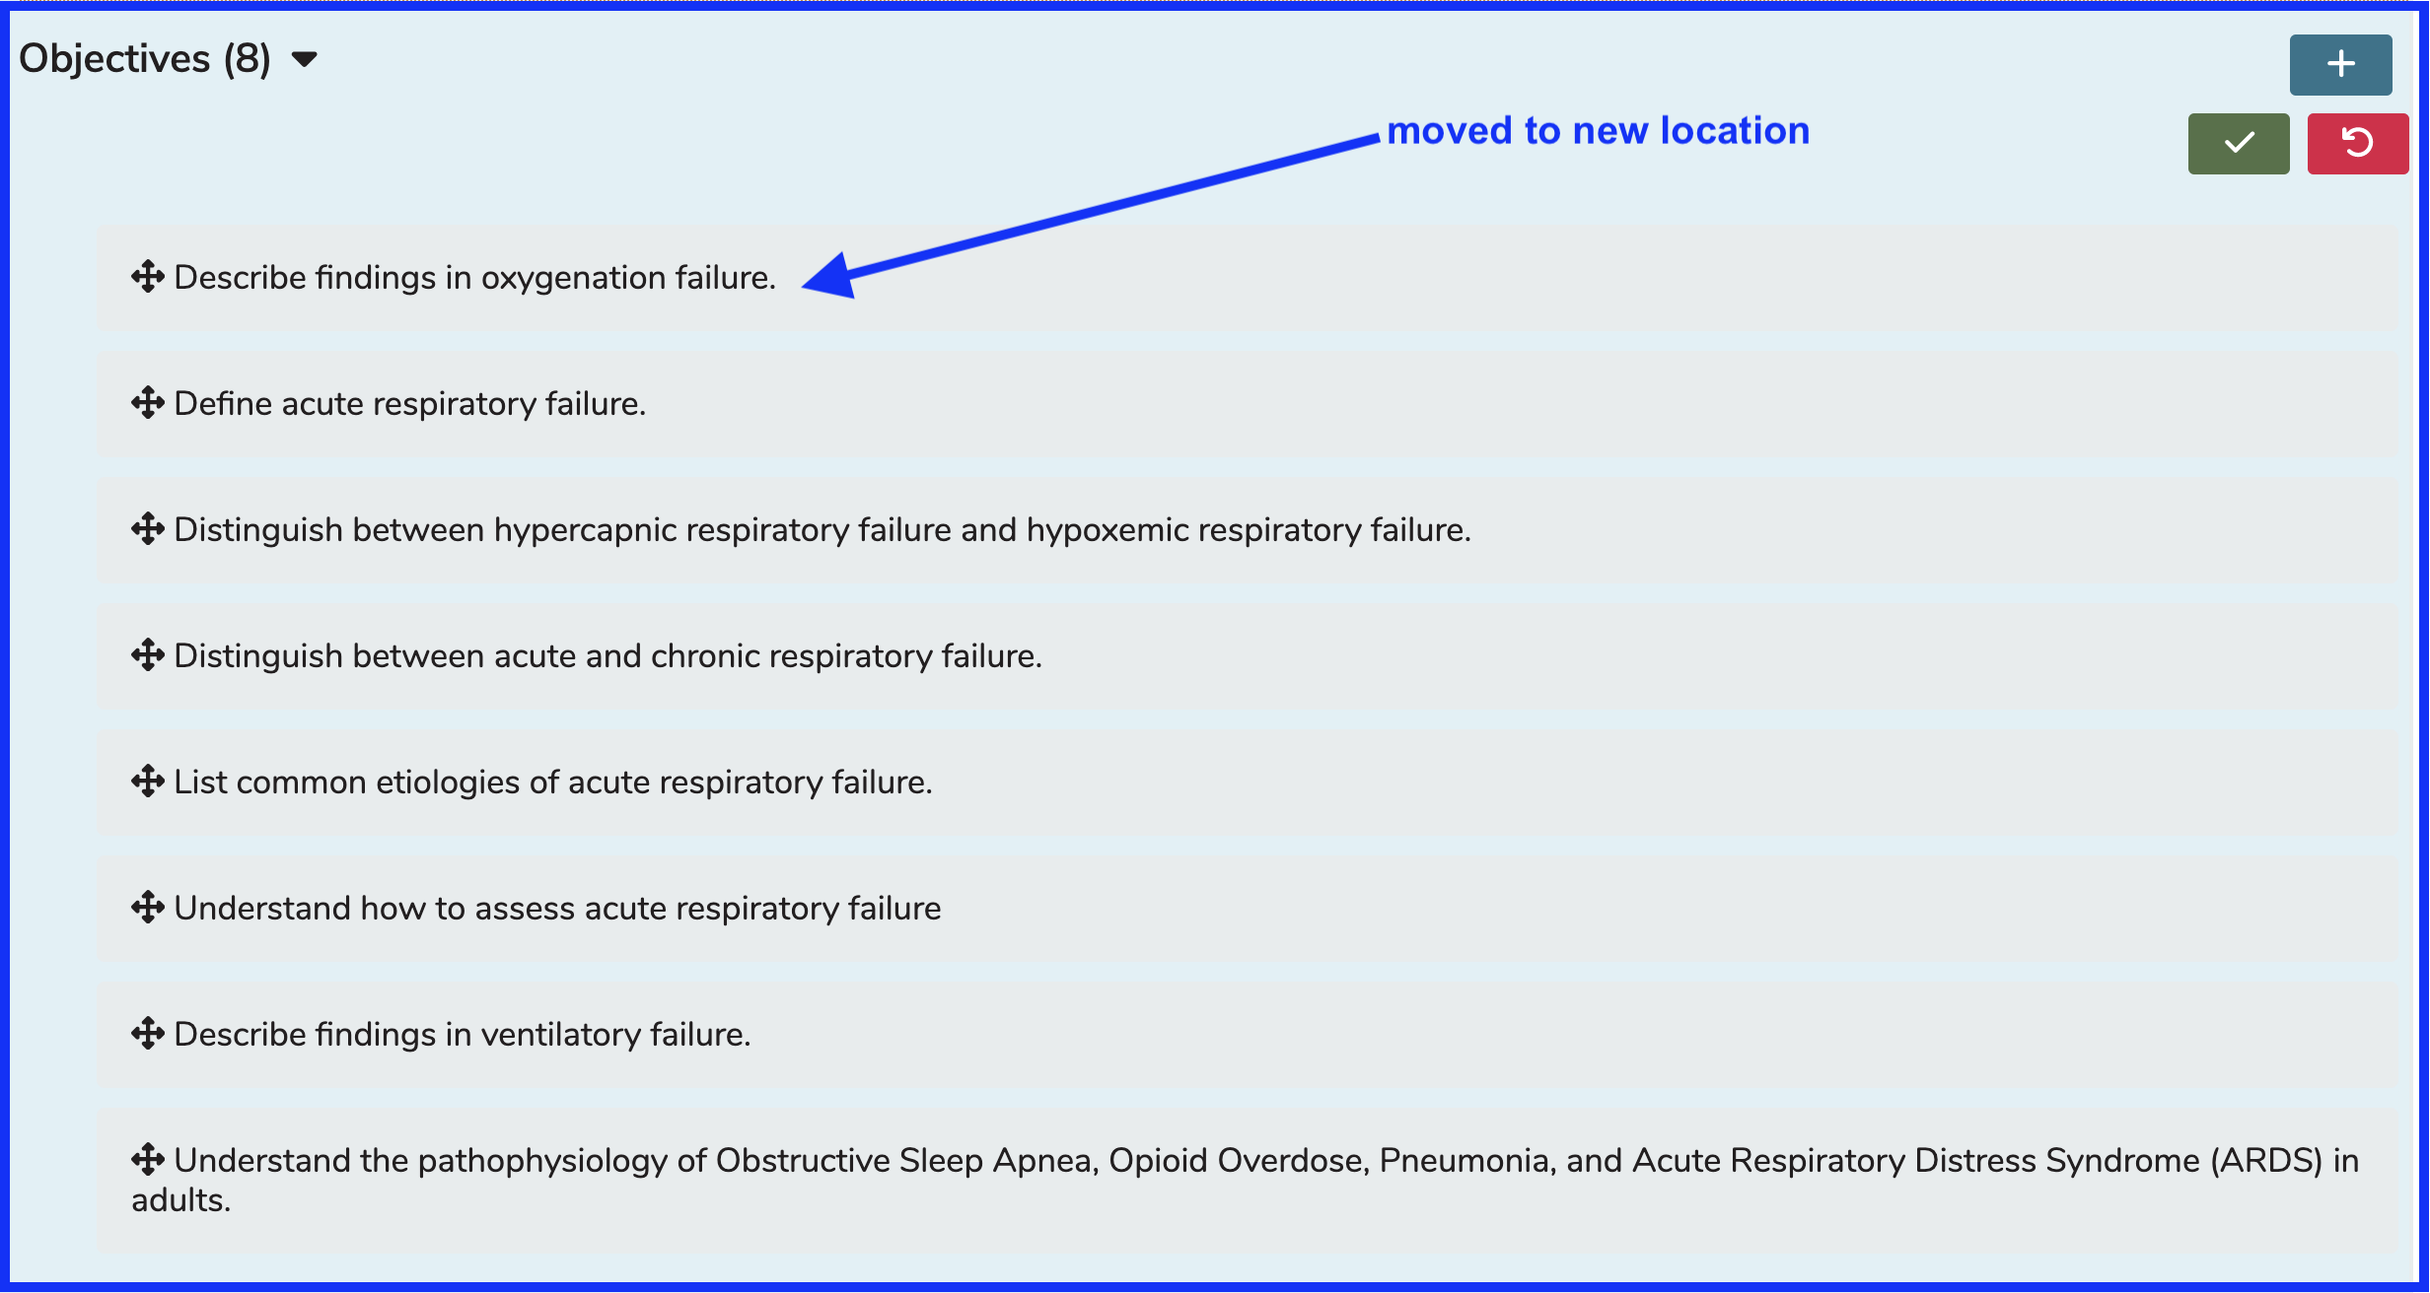
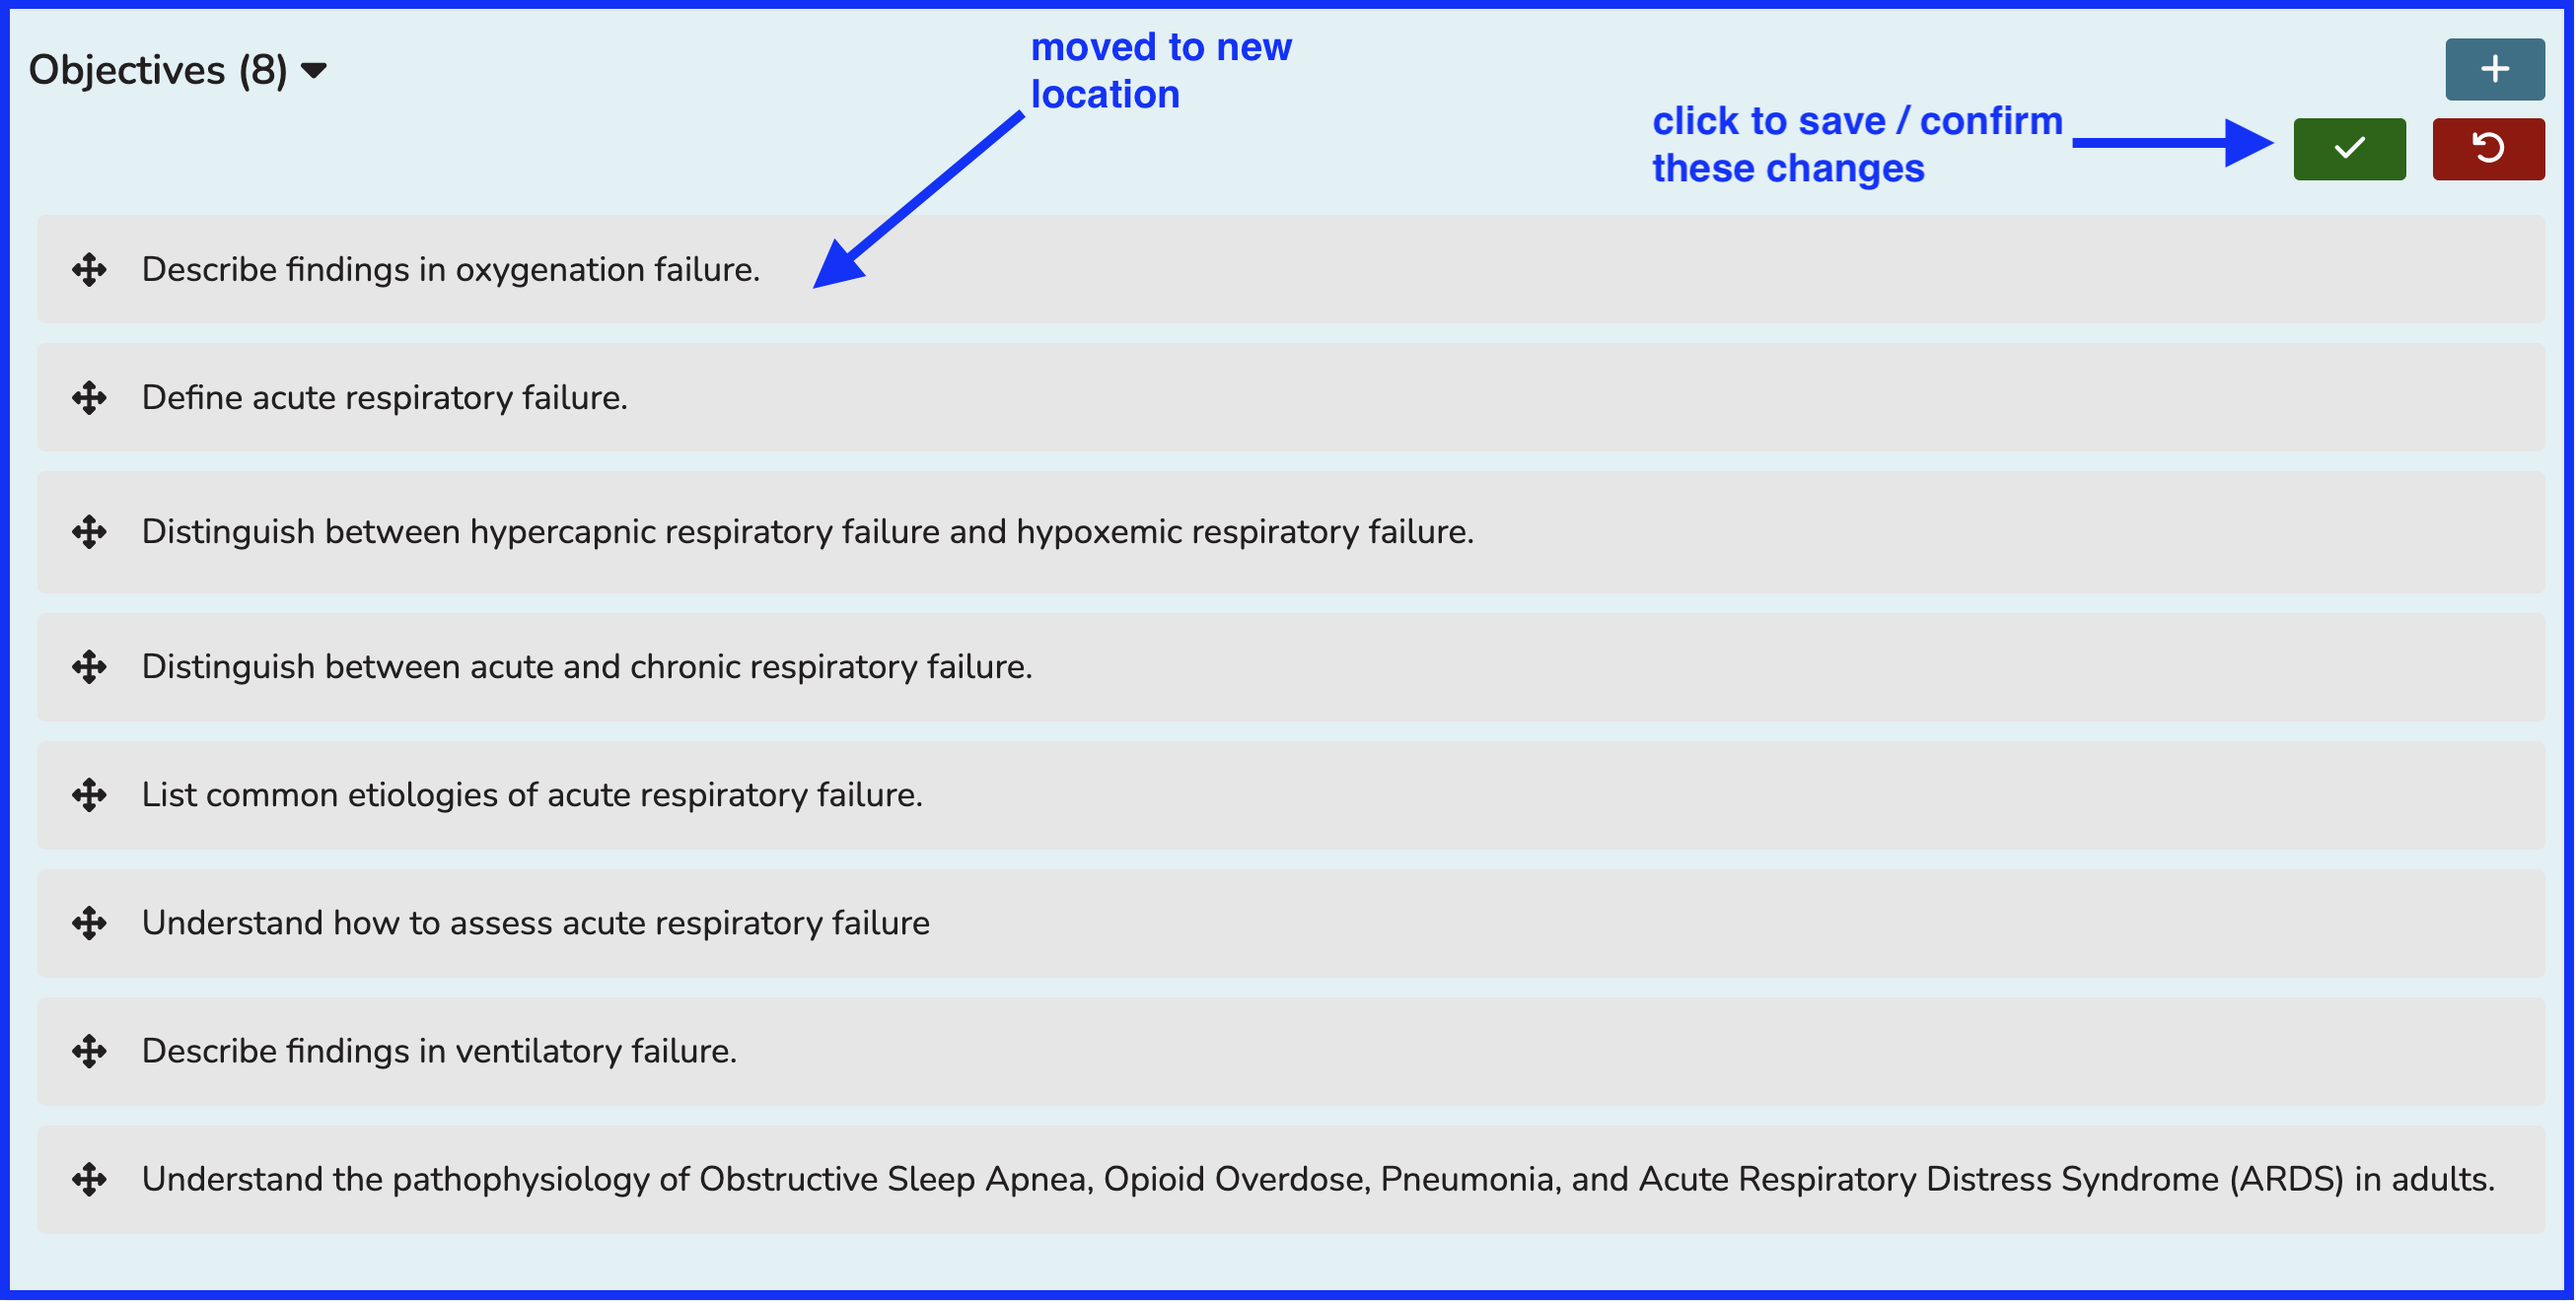
same as always - new image and text

diff --git a/courses-and-sessions/sessions/sort-objectives.md b/courses-and-sessions/sessions/sort-objectives.md
@@ -20,7 +20,7 @@ To do this, select the second to last objective we want to move to the top and d
 
 ![moving objective](../../images/sort_session_objectives/moving_objective.png)
 
-After dropping the Objective, the list is re-sorted as shown below. Click `"Save"` to complete this process or `"Cancel"` to abort.
+After dropping the Objective, the list is re-sorted as shown below. Click `"Save"` to complete this process. `"Cancel"` is available if you wish not to process these changes.
 
 ![updated sort order](../../images/sort_session_objectives/updated_sort_order.png)
 
